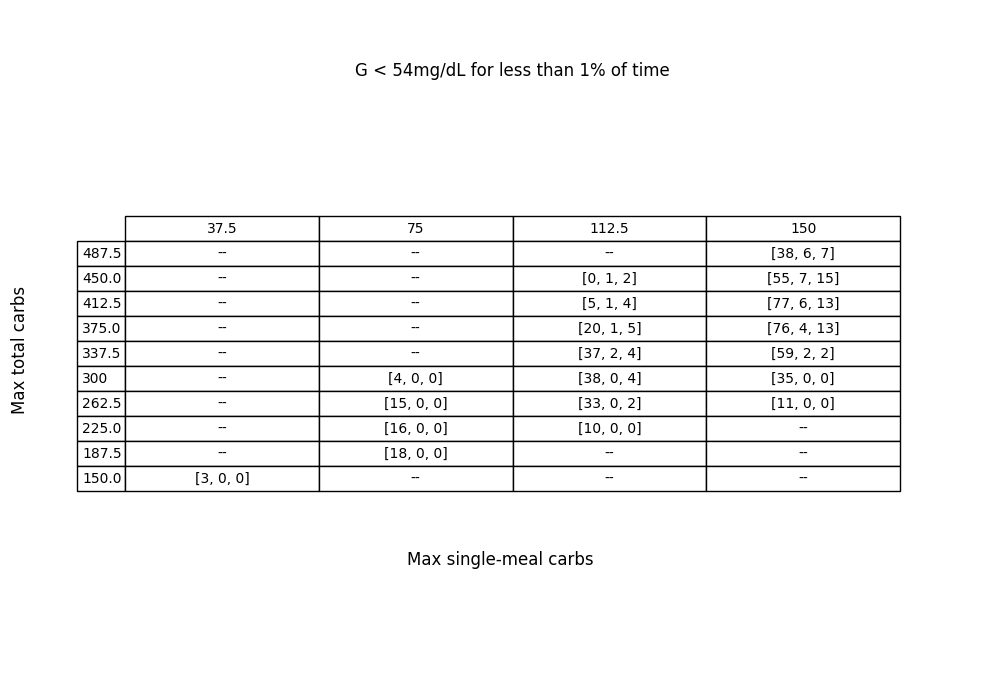
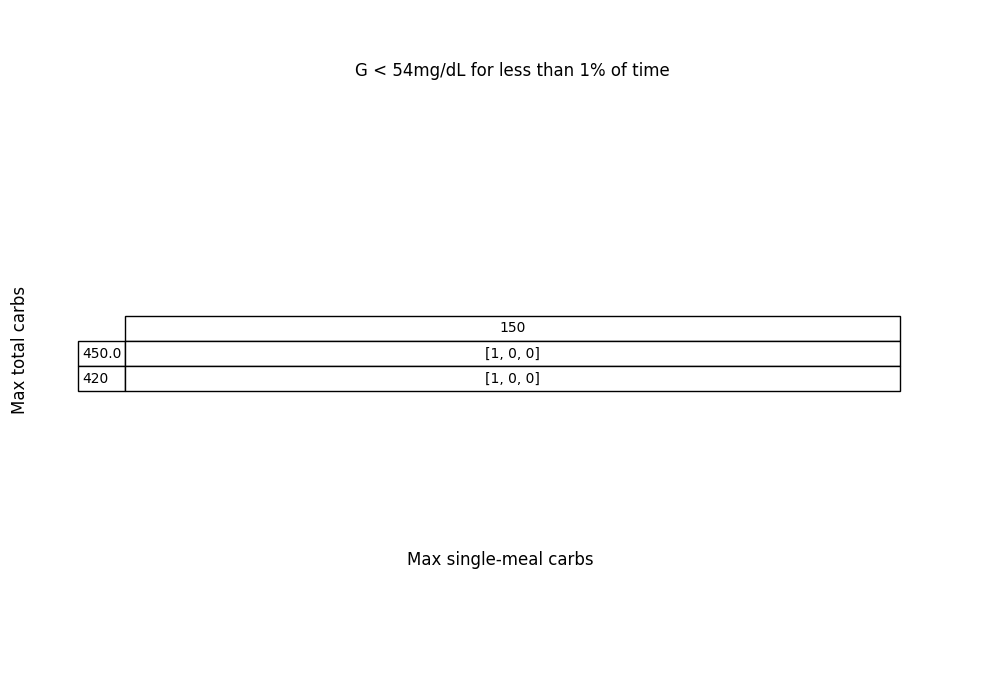
verify now picks up where it left off

Changed region(s): [[0.062, 0.3, 0.899, 0.72], [0.682, 0.45, 0.713, 0.48], [0.31, 0.45, 0.341, 0.48]]

diff --git a/pump/verification.py b/pump/verification.py
@@ -169,29 +169,20 @@ def gen_verification_scenarios():
         
         cgm_config = CGMConfig((1 - CGM_BIAS, 1 + CGM_BIAS), (0, 0))
         user_config = UserConfig(resume=RESUME)
-        scenario = SimulationScenario(init_bg, boluses, meals, errors, [settings_low, settings_high], patient_params, cgm_config, sim_duration=60, user_config=user_config)
+        scenario = SimulationScenario(init_bg, boluses, meals, errors, [settings_low, settings_high], patient_params, cgm_config, sim_duration=DURATION, user_config=user_config)
         scenarios.append(scenario)
     return scenarios        
-        
+
+# TODO: this is completely broken, figure out a way to fix it   
 def get_scenario_directory(scenario: SimulationScenario, output_dir):
     idx = 0
-    h = hex(hash(scenario) + sys.maxsize + 1)[2:]
     result = ''
     while True:
-        prefix = hex(idx)[2:]
-        attempt = os.path.join(output_dir, f'scenario_{prefix}{h}')
-        if os.path.exists(attempt):
-            with open(os.path.join(attempt, 'scenario.pkl'), 'rb') as f:
-                collision = pickle.load(attempt)
-            if collision == scenario:
-                # last time we tried to verif this scenario, we were not successful
-                result = attempt
-                break
-            else:
-                idx += 1
-        else:
+        attempt = os.path.join(output_dir, f'scenario_{idx}')
+        if not os.path.exists(attempt):
             result = attempt
             break
+        idx += 1
     os.makedirs(result)
     return result
 
@@ -308,14 +299,15 @@ def verify_wrapper():
     random.seed(seed)
 
     scenarios = gen_verification_scenarios()
-    
     np.random.shuffle(scenarios)  
 
     # don't want to redo existing scenarios
     results = load_results(output_dir)
-    existing = set(result[0] for result in results)
+    existing = list(result[0] for result in results) # can probably make this a set without losing determinism
     print(f'found {len(results)} existing results')
-    scenarios = set(scenarios).difference(existing)
+
+    # want to maintain determinism, so use list comprehension instead of set difference
+    scenarios = [scenario for scenario in scenarios if scenario not in existing]
 
     verify(scenarios, output_dir, pool_size=processes)  
 
@@ -476,7 +468,10 @@ if __name__ == '__main__':
     # init = get_init(traces, 7)
     # print(init)
     # simulate_from_init(scenario, init, logging=True, log_dir='results/logs')
-    results = load_results('results/verification')
-    titles = ['G < 54mg/dL for less than 1% of time', '54mg/dL <= G <= 70mg/dL for less than 4% of time', '70mg/dL <= G <= 180 mg/dL for at least 70% of time', '180mg/dL <= G <= 250 mg/dL for less than 25% of time', ' G > 250 mg/dL for < 5% of time']
-    for i in range(5):
-        table_analysis(results, i, f'table_{i}', titles[i])
+    # results = load_results('results/verification')
+    # print(results)
+    # titles = ['G < 54mg/dL for less than 1% of time', '54mg/dL <= G <= 70mg/dL for less than 4% of time', '70mg/dL <= G <= 180 mg/dL for at least 70% of time', '180mg/dL <= G <= 250 mg/dL for less than 25% of time', ' G > 250 mg/dL for < 5% of time']
+    # for i in range(5):
+    #     table_analysis(results, i, f'table_{i}', titles[i])
+
+    verify_wrapper()
